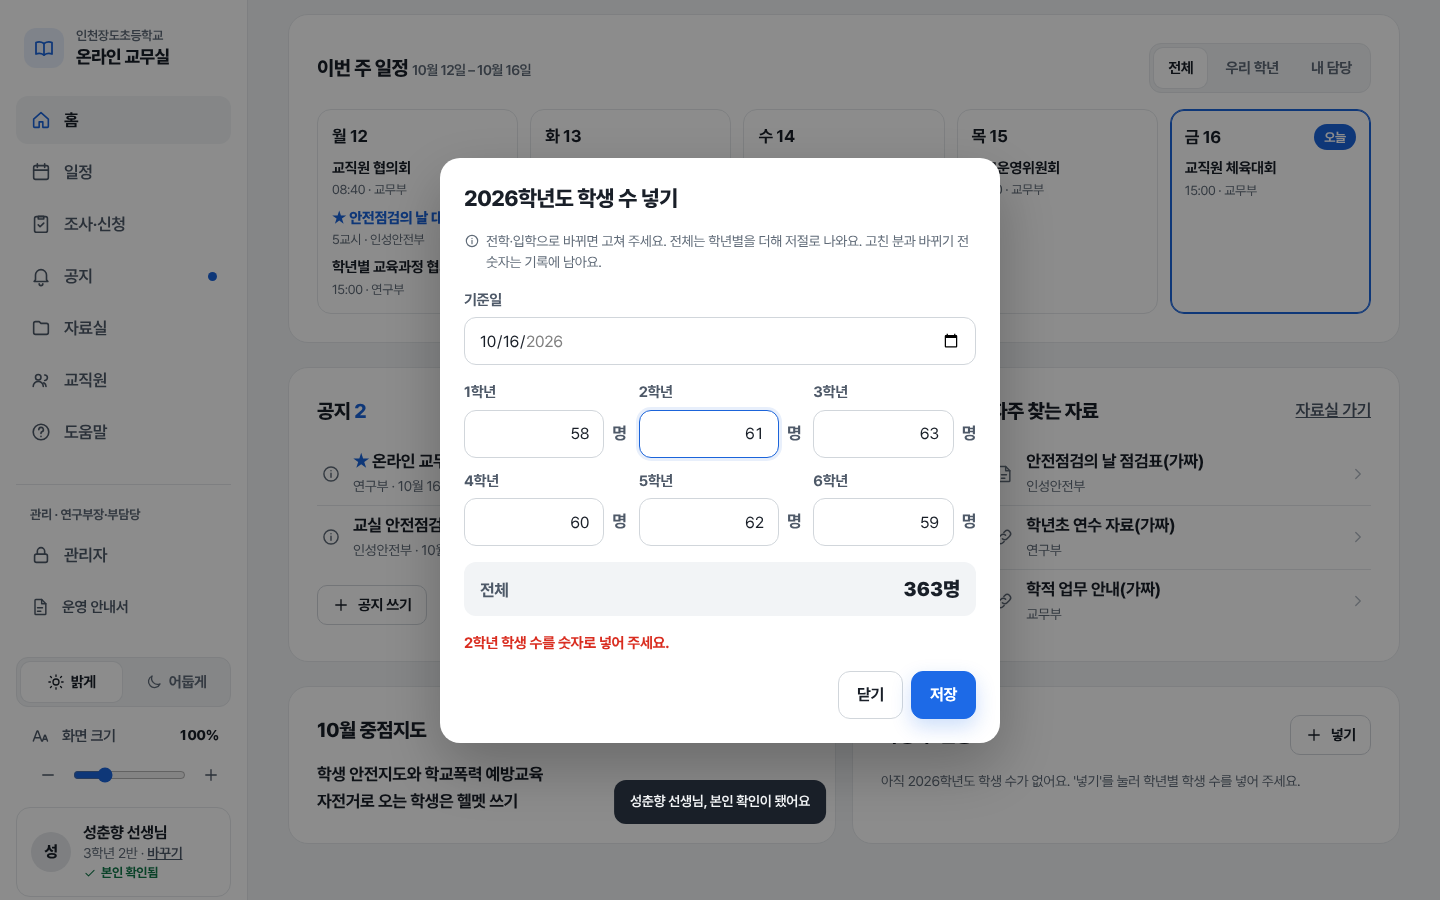
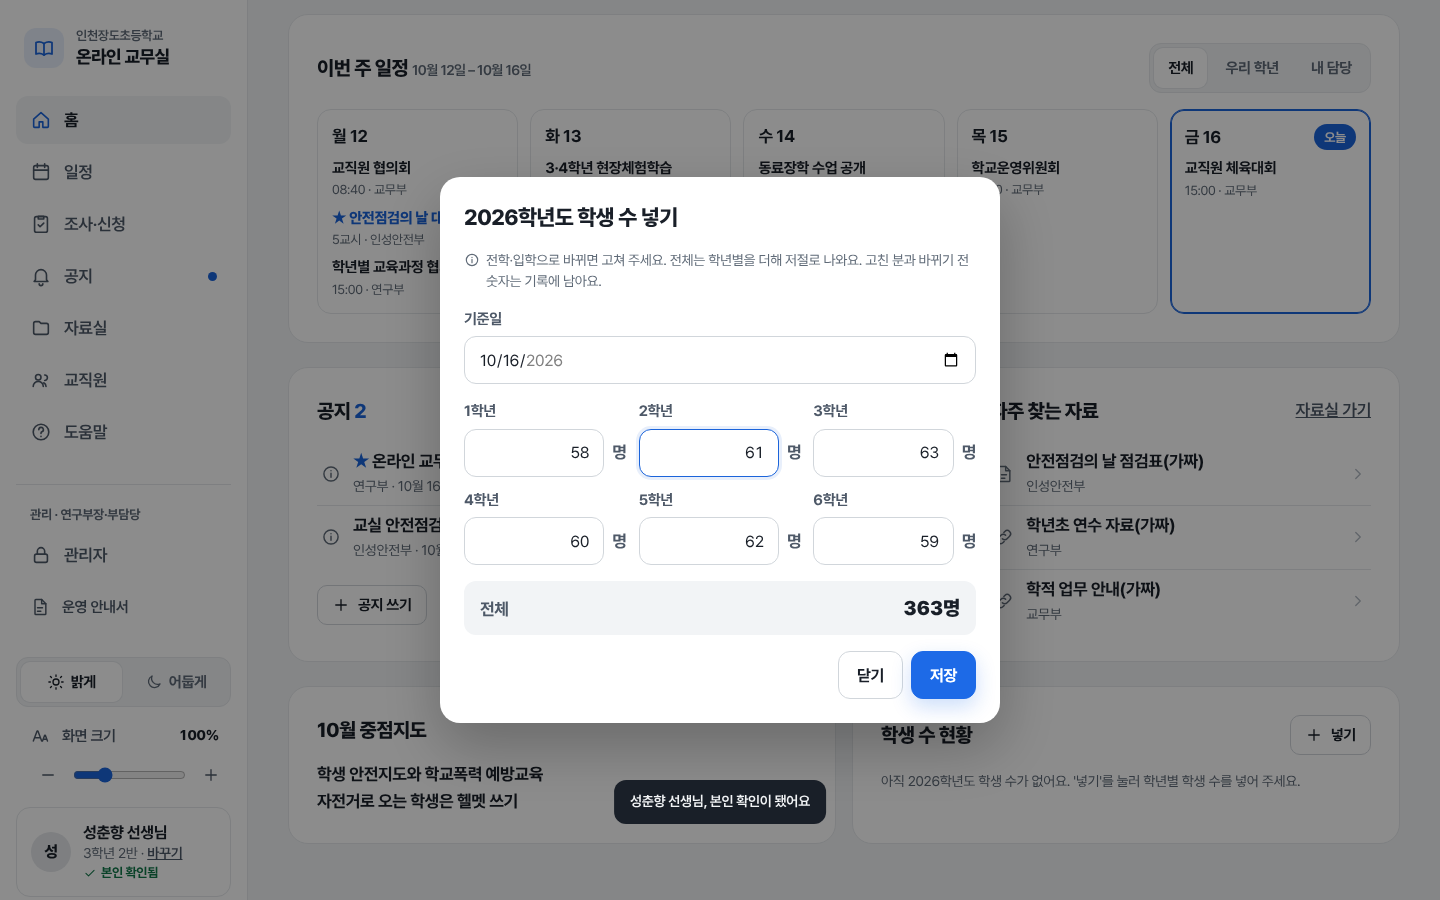
학생 수 넣기 창: 숫자를 고치면 지난 안내를 바로 지움
- 빈칸 안내가 숫자를 고친 뒤에도 남아 있던 것을 고침, 사진 점검에 확인 추가
- 사진 106장 다시 찍음, 설치안내 App 마지막 줄 번호 맞춤

Claude-Session: https://claude.ai/code/session_01JZpQHuY6UKZye4NKwBkYCk

diff --git a/tools/shots.js b/tools/shots.js
@@ -358,6 +358,7 @@ async function studentsFlow(page, kind) {
     }
   }
   await page.fill('#stu-2', '61');
+  if ((await page.textContent('#stu-err')).trim()) problems.push(kind + ': 숫자를 고쳤는데 지난 안내가 남아 있음');
   await shot(page, kind + '_학생수_넣기창');
   await page.click('#stu-save');
   await page.locator('.stu-grid').waitFor();

diff --git a/미리보기/미리보기.html b/미리보기/미리보기.html
@@ -5700,6 +5700,7 @@ function setPinForTest_(row, pin) {
       x.addEventListener('input', function () {
         var v = x.value.replace(/[^0-9]/g, '').slice(0, 3);
         if (v !== x.value) x.value = v;
+        qs('#stu-err').textContent = ''; // 고치기 시작하면 지난 안내는 지운다
         sum();
       });
     });

diff --git a/apps-script/App.html b/apps-script/App.html
@@ -765,6 +765,7 @@
       x.addEventListener('input', function () {
         var v = x.value.replace(/[^0-9]/g, '').slice(0, 3);
         if (v !== x.value) x.value = v;
+        qs('#stu-err').textContent = ''; // 고치기 시작하면 지난 안내는 지운다
         sum();
       });
     });

diff --git a/설치안내.md b/설치안내.md
@@ -37,7 +37,7 @@
 | 9 | [Setup](https://github.com/gudtbsl123-alt/online-gyomusil/blob/claude/awesome-clarke-s0uhtb/apps-script/Setup.gs) | 스크립트 | 이미 있음 → 내용 바꾸기 | 2026-10-16 | **313** | `}` |
 | 10 | [Index](https://github.com/gudtbsl123-alt/online-gyomusil/blob/claude/awesome-clarke-s0uhtb/apps-script/Index.html) | HTML | 이미 있음 → 내용 바꾸기 | 2026-10-16 | **20** | `</html>` |
 | 11 | [Styles](https://github.com/gudtbsl123-alt/online-gyomusil/blob/claude/awesome-clarke-s0uhtb/apps-script/Styles.html) | HTML | 이미 있음 → 내용 바꾸기 | **2026-10-16b (이번에 바뀜)** | **744** | `</style>` |
-| 12 | [App](https://github.com/gudtbsl123-alt/online-gyomusil/blob/claude/awesome-clarke-s0uhtb/apps-script/App.html) | HTML | 이미 있음 → 내용 바꾸기 | **2026-10-16b (이번에 바뀜)** | **3975** | `</script>` |
+| 12 | [App](https://github.com/gudtbsl123-alt/online-gyomusil/blob/claude/awesome-clarke-s0uhtb/apps-script/App.html) | HTML | 이미 있음 → 내용 바꾸기 | **2026-10-16b (이번에 바뀜)** | **3976** | `</script>` |
 <!-- 파일표 끝 -->
 
 **한 파일마다 이렇게 해요**
